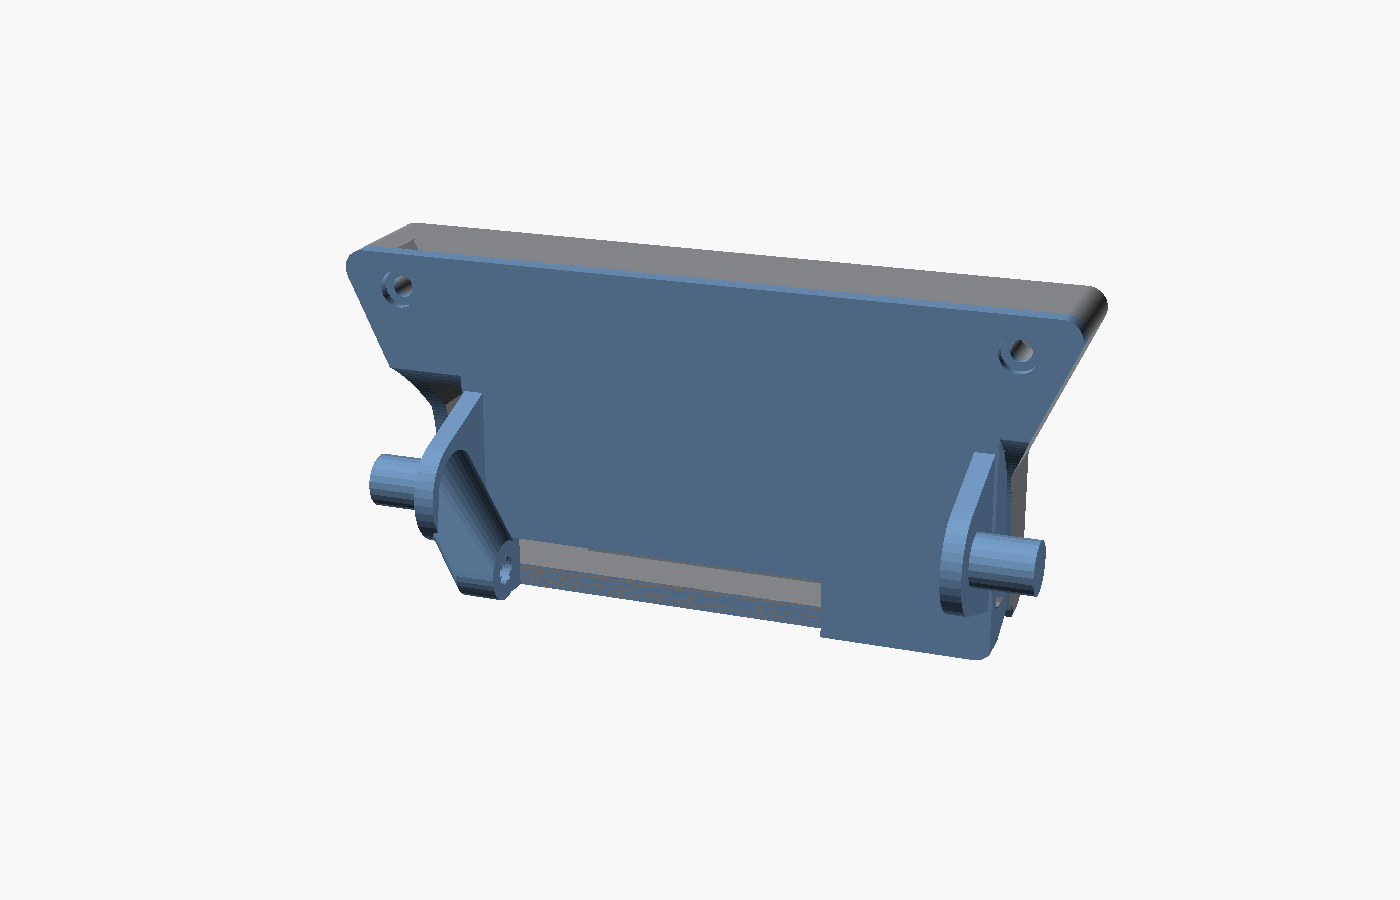
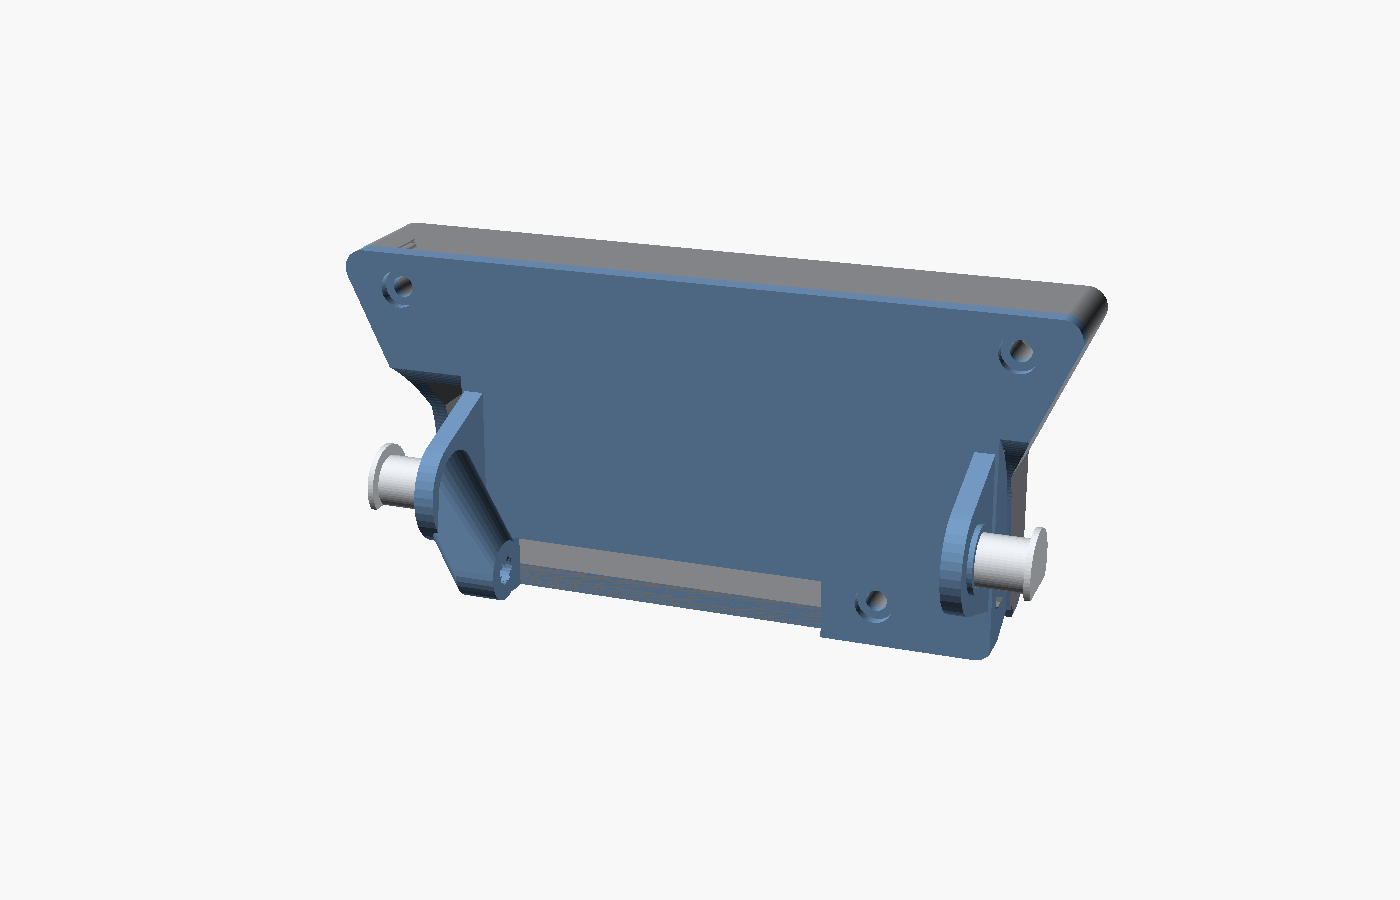
head_v6: separate D-shaped axle pins replace the printed stubs; spacer bosses on the arms; flat cheek covers hold the pins

Changed region(s): [[0.6757, 0.5911, 0.7679, 0.6844], [0.2457, 0.4978, 0.3071, 0.56], [0.6143, 0.6533, 0.645, 0.6844]]

diff --git a/hardware/cad/docs/build_photos/README.md b/hardware/cad/docs/build_photos/README.md
@@ -20,7 +20,7 @@ mic cans in their pockets. One side is held by an M2.5 x 12 bolt through the edg
 ### Step 2: head: front piece, back piece, OLED, camera ✅
 
 **Parts (in `out/`):** `base_head_front_v6.3mf` (print front face down, no supports), `base_head_back_v6.3mf` (print front face down, tree supports under the axle stubs and the crank bracket),
-`base_head_straps_v6.3mf` (1 long camera strap + 1 OLED half strap, flat). They replace `base_head_v4`, `base_camframe_v4`, `base_head_v5` and `base_plate_v4`; do not print those. Printed and assembled (2026-11-14).
+`base_head_straps_v6.3mf` (1 long camera strap + 1 OLED half strap, flat). **Redesign 2026-11-14:** the printed axle stubs are gone; the back piece now has a D-shaped bore in each arm and a 0.8 mm spacer boss, and the axle is two separate pins, `base_axle_pin_v6.3mf` (print 2, identical, flat side down, lying on the bed). The back piece must be **reprinted**. They replace `base_head_v4`, `base_camframe_v4`, `base_head_v5` and `base_plate_v4`; do not print those. Printed and assembled (2026-11-14).
 **Hardware:** the camera with its glass eyes, the OLED (2.08", GME25664-65), 3 x M2.5 heat-set inserts (front piece), 1 x M3 heat-set insert (crank bracket on the back piece's left arm),
 2 x **M2.5 x 10** + 1 x **M2.5 x 8** (joint, the short one at the bottom right), 2 x **M2 x 6** (camera strap, one at each end), 4 x **M2 x 4** (OLED board) + 1 x **M2 x 5** (OLED half strap, optional extra), all M2 self-tapping into the printed pilot holes.
 **Nothing more to print for this step.**
@@ -67,4 +67,5 @@ Still to add: `10_head_closed.jpg`. Still open: a decorative lens shroud in a co
 | 7 | Tilt rod (M3 rod, 2 rose joints) | none |
 | 8 | XIAO, wiring, cheek covers, cowl | **`base_cover_v4.3mf`** (print 2); reprint `base_cowl_v4.3mf` only if you printed it before commit c652f5e |
 
-**Note on step 6:** the head's printed axle stubs run from the arm through the whole cheek, and the cheeks leave a 1 mm gap, so the head cannot be put in once the cheeks are fixed. This needs a design change before step 6 (for example a separate axle pin).
+**Step 6 (head into the cheeks), now resolved:** press a 608 into each cheek from the inner face, slide the head in from the front (the arms' spacer bosses sit 0.2 mm from the cheeks), then push one axle pin from the outside through each bearing into the D bore of the arm (flat side down, it only fits one way).
+The pin's flange sits in the 12 mm lip bore against the bearing; the cheek cover (now flat, spigot removed, **reprint** `base_cover_v4.3mf` x 2) closes the bore and holds the pin in. No new inserts: the covers use the cheeks' existing M3 inserts.
